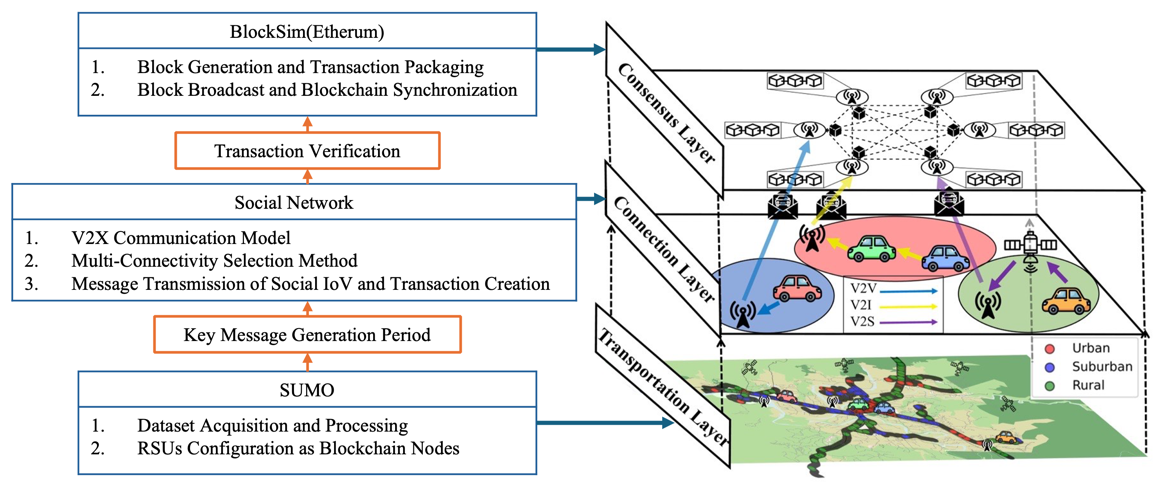
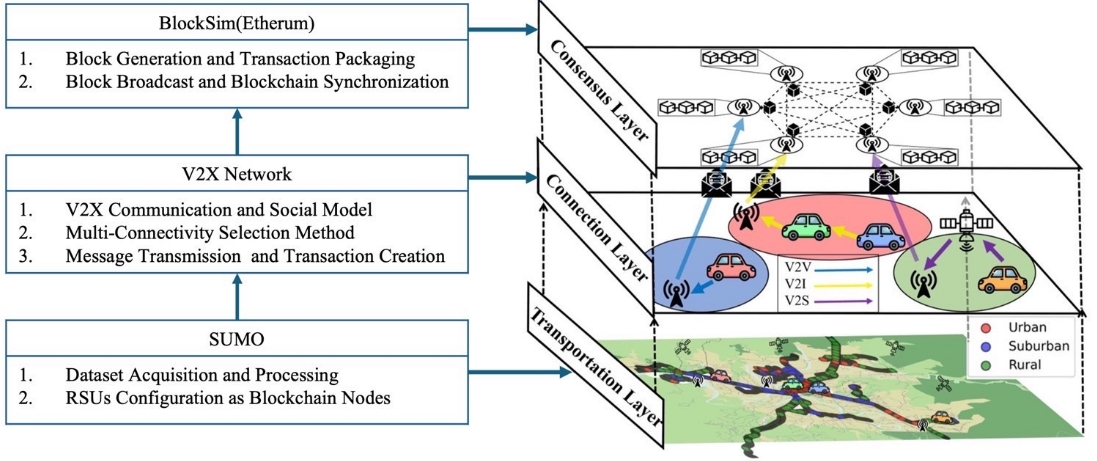
Update assets

diff --git a/README.md b/README.md
@@ -5,7 +5,7 @@ This system resolves the integration challenges between blockchain and V2X commu
 The multi-layer integration of blockchain technology and V2X communication is described as below.
 
 <div align="center">
-    <img src="./assets/system2.png?raw=true" width=700>
+    <img src="./assets/system.png?raw=true" width=700>
 </div>
 
 1. The SUMO software tool is used to create vehicle datasets for simulating **Transportation Layer**, classifying traffic data into urban, suburban, and rural areas. RSUs were placed based on vehicle positions, and satellite data came from CelesTrak’s Starlink dataset. Non-mobile RSUs were designated as blockchain nodes, with each node given a node ID, transaction pool, local blockchain, and hash power, which was distributed based on a Gaussian distribution.
